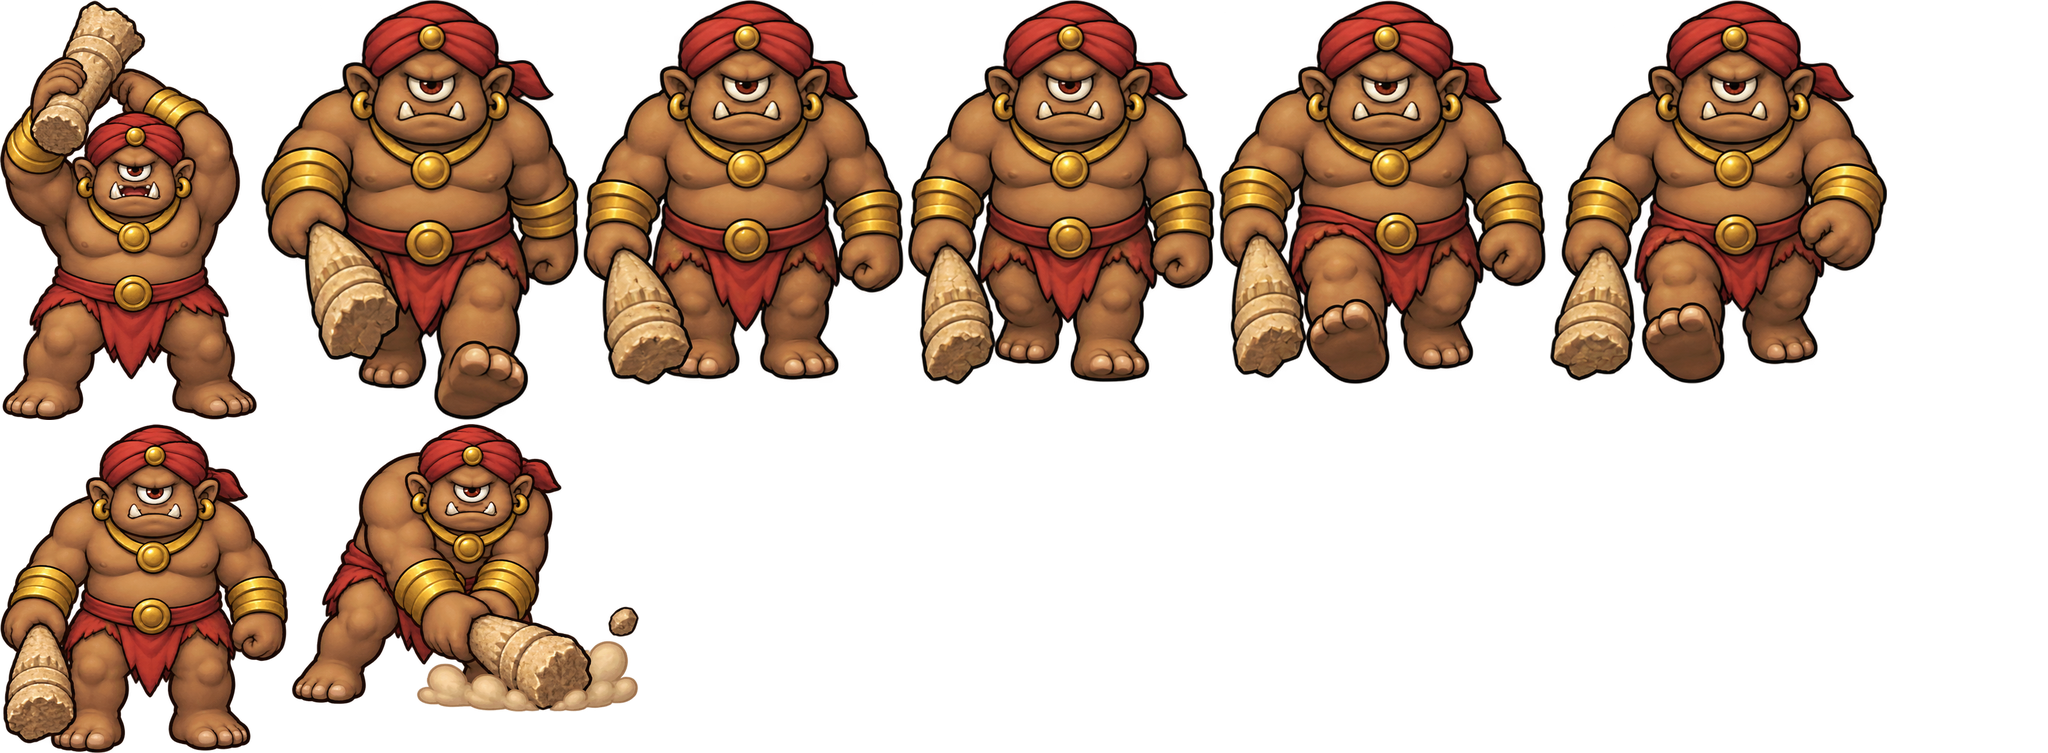
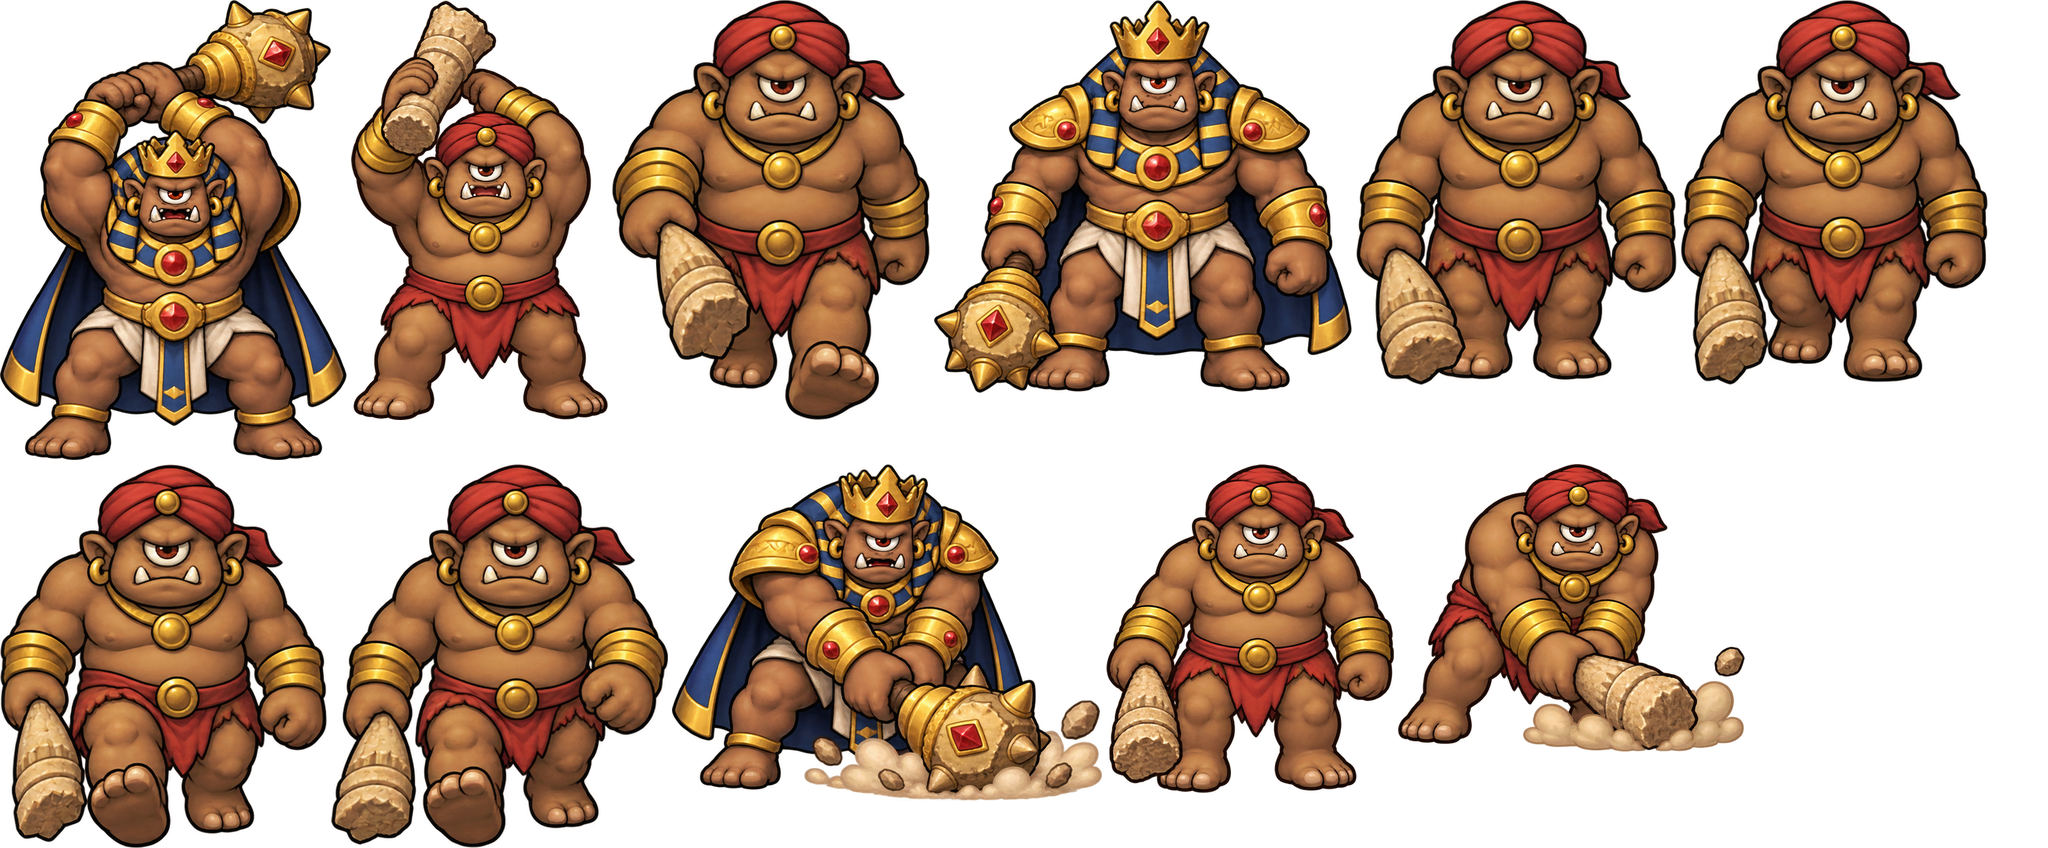
迎撃ロード: ステージ別の巨人王（砂漠のファラオ・氷の王・炎の王・天空の王）、ランキング有効化

diff --git a/assets/v2g/catalog.js b/assets/v2g/catalog.js
@@ -1,2 +1,2 @@
 /* 迎撃ロード ステージ別の巨人（ChatGPTで制作・_asset_work/build_v2.py で生成）。余白は削ってあるので、見えている部分＝セル全体 */
-window.GEIGEKI_V2G_CATALOG = {"sheets": {"giant_2": {"file": "giant_2.png", "width": 2048, "height": 753}, "giant_3": {"file": "giant_3.png", "width": 2048, "height": 785}, "giant_4": {"file": "giant_4.png", "width": 2048, "height": 802}, "giant_5": {"file": "giant_5.png", "width": 2048, "height": 770}}, "sprites": {"giant_2_raise": {"sheet": "giant_2", "x": 0, "y": 0, "w": 257, "h": 420}, "giant_2_walk_3": {"sheet": "giant_2", "x": 261, "y": 0, "w": 318, "h": 420}, "giant_2_walk_1": {"sheet": "giant_2", "x": 583, "y": 0, "w": 321, "h": 385}, "giant_2_walk_5": {"sheet": "giant_2", "x": 908, "y": 0, "w": 307, "h": 385}, "giant_2_walk_2": {"sheet": "giant_2", "x": 1219, "y": 0, "w": 327, "h": 384}, "giant_2_walk_4": {"sheet": "giant_2", "x": 1550, "y": 0, "w": 337, "h": 384}, "giant_2_idle": {"sheet": "giant_2", "x": 0, "y": 424, "w": 288, "h": 329}, "giant_2_slam": {"sheet": "giant_2", "x": 292, "y": 424, "w": 347, "h": 288}, "giant_3_raise": {"sheet": "giant_3", "x": 0, "y": 0, "w": 316, "h": 420}, "giant_3_walk_3": {"sheet": "giant_3", "x": 320, "y": 0, "w": 333, "h": 420}, "giant_3_walk_4": {"sheet": "giant_3", "x": 657, "y": 0, "w": 330, "h": 390}, "giant_3_walk_2": {"sheet": "giant_3", "x": 991, "y": 0, "w": 333, "h": 384}, "giant_3_walk_5": {"sheet": "giant_3", "x": 1328, "y": 0, "w": 331, "h": 382}, "giant_3_walk_1": {"sheet": "giant_3", "x": 1663, "y": 0, "w": 332, "h": 379}, "giant_3_idle": {"sheet": "giant_3", "x": 0, "y": 424, "w": 394, "h": 361}, "giant_3_slam": {"sheet": "giant_3", "x": 398, "y": 424, "w": 408, "h": 352}, "giant_4_raise": {"sheet": "giant_4", "x": 0, "y": 0, "w": 286, "h": 420}, "giant_4_walk_3": {"sheet": "giant_4", "x": 290, "y": 0, "w": 353, "h": 420}, "giant_4_walk_1": {"sheet": "giant_4", "x": 647, "y": 0, "w": 339, "h": 399}, "giant_4_walk_4": {"sheet": "giant_4", "x": 990, "y": 0, "w": 343, "h": 391}, "giant_4_walk_2": {"sheet": "giant_4", "x": 1337, "y": 0, "w": 324, "h": 388}, "giant_4_walk_5": {"sheet": "giant_4", "x": 1665, "y": 0, "w": 336, "h": 385}, "giant_4_idle": {"sheet": "giant_4", "x": 0, "y": 424, "w": 364, "h": 378}, "giant_4_slam": {"sheet": "giant_4", "x": 368, "y": 424, "w": 392, "h": 362}, "giant_5_raise": {"sheet": "giant_5", "x": 0, "y": 0, "w": 293, "h": 420}, "giant_5_walk_3": {"sheet": "giant_5", "x": 297, "y": 0, "w": 332, "h": 420}, "giant_5_walk_4": {"sheet": "giant_5", "x": 633, "y": 0, "w": 331, "h": 396}, "giant_5_walk_5": {"sheet": "giant_5", "x": 968, "y": 0, "w": 324, "h": 388}, "giant_5_walk_1": {"sheet": "giant_5", "x": 1296, "y": 0, "w": 336, "h": 384}, "giant_5_walk_2": {"sheet": "giant_5", "x": 1636, "y": 0, "w": 330, "h": 378}, "giant_5_idle": {"sheet": "giant_5", "x": 0, "y": 424, "w": 361, "h": 346}, "giant_5_slam": {"sheet": "giant_5", "x": 365, "y": 424, "w": 429, "h": 335}}};
+window.GEIGEKI_V2G_CATALOG = {"sheets": {"giant_2": {"file": "giant_2.png", "width": 2048, "height": 848}, "giant_3": {"file": "giant_3.png", "width": 2048, "height": 1204}, "giant_4": {"file": "giant_4.png", "width": 2048, "height": 849}, "giant_5": {"file": "giant_5.png", "width": 2048, "height": 1199}}, "sprites": {"giant_2_king_raise": {"sheet": "giant_2", "x": 0, "y": 0, "w": 347, "h": 460}, "giant_2_raise": {"sheet": "giant_2", "x": 351, "y": 0, "w": 257, "h": 420}, "giant_2_walk_3": {"sheet": "giant_2", "x": 612, "y": 0, "w": 318, "h": 420}, "giant_2_king_idle": {"sheet": "giant_2", "x": 934, "y": 0, "w": 418, "h": 393}, "giant_2_walk_1": {"sheet": "giant_2", "x": 1356, "y": 0, "w": 321, "h": 385}, "giant_2_walk_5": {"sheet": "giant_2", "x": 1681, "y": 0, "w": 307, "h": 385}, "giant_2_walk_2": {"sheet": "giant_2", "x": 0, "y": 464, "w": 327, "h": 384}, "giant_2_walk_4": {"sheet": "giant_2", "x": 331, "y": 464, "w": 337, "h": 384}, "giant_2_king_slam": {"sheet": "giant_2", "x": 672, "y": 464, "w": 430, "h": 337}, "giant_2_idle": {"sheet": "giant_2", "x": 1106, "y": 464, "w": 288, "h": 329}, "giant_2_slam": {"sheet": "giant_2", "x": 1398, "y": 464, "w": 347, "h": 288}, "giant_3_king_raise": {"sheet": "giant_3", "x": 0, "y": 0, "w": 421, "h": 460}, "giant_3_raise": {"sheet": "giant_3", "x": 425, "y": 0, "w": 316, "h": 420}, "giant_3_walk_3": {"sheet": "giant_3", "x": 745, "y": 0, "w": 333, "h": 420}, "giant_3_king_idle": {"sheet": "giant_3", "x": 1082, "y": 0, "w": 467, "h": 408}, "giant_3_walk_4": {"sheet": "giant_3", "x": 1553, "y": 0, "w": 330, "h": 390}, "giant_3_walk_2": {"sheet": "giant_3", "x": 0, "y": 464, "w": 333, "h": 384}, "giant_3_walk_5": {"sheet": "giant_3", "x": 337, "y": 464, "w": 331, "h": 382}, "giant_3_walk_1": {"sheet": "giant_3", "x": 672, "y": 464, "w": 332, "h": 379}, "giant_3_king_slam": {"sheet": "giant_3", "x": 1008, "y": 464, "w": 471, "h": 374}, "giant_3_idle": {"sheet": "giant_3", "x": 1483, "y": 464, "w": 394, "h": 361}, "giant_3_slam": {"sheet": "giant_3", "x": 0, "y": 852, "w": 408, "h": 352}, "giant_4_king_raise": {"sheet": "giant_4", "x": 0, "y": 0, "w": 299, "h": 460}, "giant_4_raise": {"sheet": "giant_4", "x": 303, "y": 0, "w": 286, "h": 420}, "giant_4_walk_3": {"sheet": "giant_4", "x": 593, "y": 0, "w": 353, "h": 420}, "giant_4_walk_1": {"sheet": "giant_4", "x": 950, "y": 0, "w": 339, "h": 399}, "giant_4_walk_4": {"sheet": "giant_4", "x": 1293, "y": 0, "w": 343, "h": 391}, "giant_4_walk_2": {"sheet": "giant_4", "x": 1640, "y": 0, "w": 324, "h": 388}, "giant_4_walk_5": {"sheet": "giant_4", "x": 0, "y": 464, "w": 336, "h": 385}, "giant_4_idle": {"sheet": "giant_4", "x": 340, "y": 464, "w": 364, "h": 378}, "giant_4_slam": {"sheet": "giant_4", "x": 708, "y": 464, "w": 392, "h": 362}, "giant_4_king_idle": {"sheet": "giant_4", "x": 1104, "y": 464, "w": 292, "h": 350}, "giant_4_king_slam": {"sheet": "giant_4", "x": 1400, "y": 464, "w": 295, "h": 348}, "giant_5_king_raise": {"sheet": "giant_5", "x": 0, "y": 0, "w": 413, "h": 460}, "giant_5_king_idle": {"sheet": "giant_5", "x": 417, "y": 0, "w": 465, "h": 453}, "giant_5_king_slam": {"sheet": "giant_5", "x": 886, "y": 0, "w": 474, "h": 430}, "giant_5_raise": {"sheet": "giant_5", "x": 1364, "y": 0, "w": 293, "h": 420}, "giant_5_walk_3": {"sheet": "giant_5", "x": 1661, "y": 0, "w": 332, "h": 420}, "giant_5_walk_4": {"sheet": "giant_5", "x": 0, "y": 464, "w": 331, "h": 396}, "giant_5_walk_5": {"sheet": "giant_5", "x": 335, "y": 464, "w": 324, "h": 388}, "giant_5_walk_1": {"sheet": "giant_5", "x": 663, "y": 464, "w": 336, "h": 384}, "giant_5_walk_2": {"sheet": "giant_5", "x": 1003, "y": 464, "w": 330, "h": 378}, "giant_5_idle": {"sheet": "giant_5", "x": 1337, "y": 464, "w": 361, "h": 346}, "giant_5_slam": {"sheet": "giant_5", "x": 0, "y": 864, "w": 429, "h": 335}}};

diff --git a/geigeki_road.html b/geigeki_road.html
@@ -2118,8 +2118,10 @@ function drawGiant(g) {
   // 素材があれば、待機・振りかぶり・叩きつけの3ポーズで描く
   // 砂漠から先は、そのステージの巨人（サイクロプス・イエティ・溶岩・嵐の巨神）。絵がまだ届いていなければ遺跡の巨人
   const lv = stageLv();
+  // 巨人王も、砂漠から先はそのステージの王（ファラオ・氷の王・炎の王・天空の王）
   const own = !g.king && lv >= 2 && SK.ok("giant_" + lv + "_idle");
-  const pre = g.king ? "giant_king_" : own ? "giant_" + lv + "_" : "giant_";
+  const ownKing = g.king && lv >= 2 && SK.ok("giant_" + lv + "_king_idle");
+  const pre = g.king ? (ownKing ? "giant_" + lv + "_king_" : "giant_king_") : own ? "giant_" + lv + "_" : "giant_";
   const fighting = battle && battle.giant === g && !g.dead;
   let pose = pre + (!fighting ? "idle" : g.phase < 0.14 ? "slam" : g.phase < 0.42 ? "idle" : "raise");
   let walking = false;
@@ -2826,7 +2828,7 @@ document.getElementById("btnSound").addEventListener("click", (e) => {
    ============================================================ */
 /* ランキングは Google Apps Script（ranking-gas.js）に記録する。
    URL が空の間はランキング関係のボタンを隠し、シェアだけ使えるようにする */
-const RANKING_API = "";
+const RANKING_API = "https://script.google.com/macros/s/AKfycbyNh85RNVYJM1_cn5vn6d4_lFm-3_9MeQZe1vMGU4xk-fHRvGbbGUIgkgI2QUXhYyySMw/exec";
 const GAME_ID = "geigeki";
 const SHARE_URL = "https://machino-ai.jp/ad-games/geigeki_road.html";
 const ovRank = document.getElementById("ovRank");
